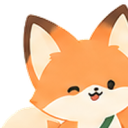
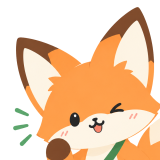
docs(brand): integre 5 expressions HD de Foxy + icone topbar en HD
Renomme les 6 fichiers "file_xxxxxxxx.png" ajoutes (noms opaques generes
par l'outil source) vers la convention du projet :
- expr-normal-hd.png, expr-smile-hd.png, expr-wink-hd.png,
  expr-worried-hd.png, expr-angry-hd.png : 5 des 9 expressions seules,
  jusqu'ici uniquement disponibles en basse resolution depuis
  foxy-style-guide.png.
- foxy-expressions-sheet-hd.png : planche de reference dont elles sont
  extraites (8 expressions au total, 3 pas encore decoupees
  individuellement : bikkuri/terreru/???).

mascot.md mis a jour (sources, inventaire des expressions HD dispo,
note sur la disparition des fichiers ChatGPT Image contenant l'unique
source HD de kangaeru - plus aucune source HD connue pour cette pose).

public/assets/img/mascot/brand-icon.png (icone de la topbar, ajoutee
dans le commit precedent) regenere depuis expr-wink-hd.png : fond
detoure par flood-fill depuis les bords (process documente en section 5
de mascot.md) puis recadre sur le visage, en remplacement du premier
essai recadre depuis wave-hello.png en basse resolution.

diff --git a/docs/brand/mascot.md b/docs/brand/mascot.md
@@ -24,31 +24,39 @@ pose utilisée en est extraite/détourée et exportée en PNG dans
   poses générées individuellement en HD, fond blanc uni (pas de carte, pas
   de légende), qualité et détail nettement supérieurs aux planches en
   grille. Numérotation alignée sur celle de `foxy_pose.png`/`foxy-pose-
-  sheet-v2.png` (1 à 24). C'est la source utilisée pour toute pose
+sheet-v2.png` (1 à 24). C'est la source utilisée pour toute pose
   disponible en HD ; les planches en grille ne servent plus que pour les
   poses pas encore régénérées individuellement (2, 16) et pour 考える.
+- **`docs/brand/expr-*-hd.png`** — même jour, mêmes propriétés (fond blanc
+  uni à détourer) que `NN_nom.png` mais pour 5 des 9 expressions seules
+  (jusque-là uniquement en basse résolution depuis `foxy-style-guide.png`) :
+  `expr-normal-hd.png` (通常), `expr-smile-hd.png` (にっこり),
+  `expr-wink-hd.png` (ウインク), `expr-worried-hd.png` (困る),
+  `expr-angry-hd.png` (怒る). `docs/brand/foxy-expressions-sheet-hd.png`
+  est la planche de référence dont elles sont extraites (8 expressions au
+  total — びっくり/照れる/??? y figurent aussi mais n'ont pas encore été
+  découpées individuellement ; 悲しい et 考える n'y figurent pas).
 
-Fichiers présents hors-scope (laissés tels quels, pas de rapport avec
-l'inventaire de poses) : `ChatGPT Image..._02_12_30.png` (mockup publicitaire
-parodiant Suica/JR East) et `ChatGPT Image..._08_26_29.png` (aperçu à 2 cases
-"考える"/"びっくり" avec sa propre numérotation locale, pas un cutout final —
-contient la seule version HD existante de 考える si on veut un jour
-harmoniser `error-404.png`).
+Les fichiers `ChatGPT Image..._02_12_30.png` (mockup publicitaire parodiant
+Suica/JR East, hors-scope) et `ChatGPT Image..._08_26_29.png` (aperçu à 2
+cases "考える"/"びっくり", contenait la seule version HD connue de 考える)
+mentionnés ici jusqu'au 12/09/2026 ont depuis disparu du dossier — 考える
+n'a donc plus aucune source HD (voir section 3).
 
 ## 1. Poses intégrées dans l'app
 
-| Pose | Source actuelle | Fichier exporté | Contexte d'usage |
-|---|---|---|---|
-| 考える (réfléchit, "?") | style-guide (basse résolution) | `error-404.png` | Page 404 — pas encore de version HD individuelle (voir ci-dessus) |
-| びっくり (surpris, "!!") | `01_surpris.png` (HD) | `error-403.png` | Page 403 |
-| 待機・通常 (neutre) | foxy_pose #2 (grille, pas encore en HD) | `error-405.png` | Page 405 |
-| 振り返る (se retourne) | `03_se_retourne.png` (HD) | `error-422.png` | Page 422 |
-| がっかり (déçu) | `04_decu.png` (HD) | `error-500.png` | Page 500 |
-| 寝る (dort) | `05_dort.png` (HD) | `error-503.png` | Page 503 (maintenance) |
-| スマホを見る (regarde son téléphone) | `06_telephone.png` (HD) | `docs-hero.png` | Sidebar wiki + page "wiki non cloné" (`/docs`) |
-| Salut / accueil | foxy_pose #16 (grille, pas encore en HD) | `wave-hello.png` | Bandeau des pages invité (`layout/guest.php` : login, mot de passe oublié, réinitialisation) |
-| ボックス (空) | foxy_pose #18 (grille, 2 variantes HD dispo, pas encore ré-exporté) | `box-empty.png` | Icône par défaut de **tout** `.empty-state` (CSS `::before`) — couvre ~25 emplacements dans l'app |
-| 通知・ベル | foxy_pose #22 (grille, HD dispo, pas encore ré-exporté) | `bell.png` | Variante `.empty-state--bell`, utilisée sur `/notifications` |
+| Pose                                 | Source actuelle                                                     | Fichier exporté  | Contexte d'usage                                                                                  |
+| ------------------------------------ | ------------------------------------------------------------------- | ---------------- | ------------------------------------------------------------------------------------------------- |
+| 考える (réfléchit, "?")              | style-guide (basse résolution)                                      | `error-404.png`  | Page 404 — pas encore de version HD individuelle (voir ci-dessus)                                 |
+| びっくり (surpris, "!!")             | `01_surpris.png` (HD)                                               | `error-403.png`  | Page 403                                                                                          |
+| 待機・通常 (neutre)                  | foxy_pose #2 (grille, pas encore en HD)                             | `error-405.png`  | Page 405                                                                                          |
+| 振り返る (se retourne)               | `03_se_retourne.png` (HD)                                           | `error-422.png`  | Page 422                                                                                          |
+| がっかり (déçu)                      | `04_decu.png` (HD)                                                  | `error-500.png`  | Page 500                                                                                          |
+| 寝る (dort)                          | `05_dort.png` (HD)                                                  | `error-503.png`  | Page 503 (maintenance)                                                                            |
+| スマホを見る (regarde son téléphone) | `06_telephone.png` (HD)                                             | `docs-hero.png`  | Sidebar wiki + page "wiki non cloné" (`/docs`)                                                    |
+| Salut / accueil                      | foxy_pose #16 (grille, pas encore en HD)                            | `wave-hello.png` | Bandeau des pages invité (`layout/guest.php` : login, mot de passe oublié, réinitialisation)      |
+| ボックス (空)                        | foxy_pose #18 (grille, 2 variantes HD dispo, pas encore ré-exporté) | `box-empty.png`  | Icône par défaut de **tout** `.empty-state` (CSS `::before`) — couvre ~25 emplacements dans l'app |
+| 通知・ベル                           | foxy_pose #22 (grille, HD dispo, pas encore ré-exporté)             | `bell.png`       | Variante `.empty-state--bell`, utilisée sur `/notifications`                                      |
 
 Les fichiers déjà utilisés dans l'app (`error-403/404/405/422/500/503.png`,
 `docs-hero.png`, `wave-hello.png`, `box-empty.png`, `bell.png`) restent ceux
@@ -61,30 +69,36 @@ netteté (403/422/500/503/404... voir ligne "docs-hero" : déjà HD).
 Fichiers `docs/brand/NN_nom.png`, fond blanc à détourer avant export vers
 `public/assets/img/mascot/` (process en section 4).
 
-| Fichier | Pose | Contexte suggéré |
-|---|---|---|
-| `07_marche.png` | 歩く, marche de profil | Étapes d'un assistant/wizard (installeur), indicateur de progression |
-| `08_assis.png` | 座る, assis neutre | État vide alternatif si on veut varier `box-empty` |
-| `09_court.png` | 走る, course | Traitement en cours (import Excel, sauvegarde, sync du wiki) |
-| `10_saute.png` | ジャンプ, saut joyeux | Confirmation de succès après une action (shift créé, congé approuvé) |
-| `11_etirement.png` | のび, étirement | Accueil dashboard ("Bonjour" du matin) |
-| `12_repos.png` | 座って休憩, assis détendu | Statut "en congé" (bundle TimeOff) |
-| `13_encourage.png` | 応援する, pompons | Fin d'assistant d'installation, jalon atteint |
-| `14_content.png` | 嬉しい, saute de joie | Écran de remerciement (bundle Feedback), échange de shift accepté |
-| `15_encourage_court.png` | 応援・走る, court en brandissant un drapeau K | Mise à jour / sauvegarde en cours (variante dynamique de #9) |
-| `17_recherche_vide.png` | 検索（空）, loupe + bulle "?" | "Aucun résultat" sur une liste avec recherche/filtre — pas encore câblé faute d'un point d'accroche CSS générique équivalent à `.empty-state` pour ce cas précis |
-| `18_boite_vide_penche.png` | ボックス（空）, penché par-dessus le carton | Variante possible de l'icône `.empty-state` par défaut |
-| `18_boite_vide_assis.png` | ボックス（空）, assis dans le carton | Variante possible de l'icône `.empty-state` par défaut — c'est celle-ci qui est la plus proche du cutout `box-empty.png` déjà en place |
-| `19_pointeuse.png` | タイムカード・時計, pointeuse "08:59" | Bundle Timeclock (confirmation de pointage) |
-| `21_Maintenance.png` | ツール・メンテナンス, casquette K + boîte à outils | Page de mise à jour admin (`system/update.php`) pendant une mise à jour |
-| `22_cloche.png` | 通知・ベル | Remplacement HD de `bell.png` |
-| `23_fete.png` | 祝う・節目, confettis (déjà fond transparent !) | Jalon célébré (mise à jour réussie, sauvegarde terminée) |
-| `24_fatigue.png` | 疲れてるけど立ってる, debout, goutte de sueur | Alerte douce sur charge de travail (proche du max de jours consécutifs) |
+| Fichier                    | Pose                                               | Contexte suggéré                                                                                                                                                 |
+| -------------------------- | -------------------------------------------------- | ---------------------------------------------------------------------------------------------------------------------------------------------------------------- |
+| `07_marche.png`            | 歩く, marche de profil                             | Étapes d'un assistant/wizard (installeur), indicateur de progression                                                                                             |
+| `08_assis.png`             | 座る, assis neutre                                 | État vide alternatif si on veut varier `box-empty`                                                                                                               |
+| `09_court.png`             | 走る, course                                       | Traitement en cours (import Excel, sauvegarde, sync du wiki)                                                                                                     |
+| `10_saute.png`             | ジャンプ, saut joyeux                              | Confirmation de succès après une action (shift créé, congé approuvé)                                                                                             |
+| `11_etirement.png`         | のび, étirement                                    | Accueil dashboard ("Bonjour" du matin)                                                                                                                           |
+| `12_repos.png`             | 座って休憩, assis détendu                          | Statut "en congé" (bundle TimeOff)                                                                                                                               |
+| `13_encourage.png`         | 応援する, pompons                                  | Fin d'assistant d'installation, jalon atteint                                                                                                                    |
+| `14_content.png`           | 嬉しい, saute de joie                              | Écran de remerciement (bundle Feedback), échange de shift accepté                                                                                                |
+| `15_encourage_court.png`   | 応援・走る, court en brandissant un drapeau K      | Mise à jour / sauvegarde en cours (variante dynamique de #9)                                                                                                     |
+| `17_recherche_vide.png`    | 検索（空）, loupe + bulle "?"                      | "Aucun résultat" sur une liste avec recherche/filtre — pas encore câblé faute d'un point d'accroche CSS générique équivalent à `.empty-state` pour ce cas précis |
+| `18_boite_vide_penche.png` | ボッwクス（空）, penché par-dessus le carton       | Variante possible de l'icône `.empty-state` par défaut                                                                                                           |
+| `18_boite_vide_assis.png`  | ボックス（空）, assis dans le carton               | Variante possible de l'icône `.empty-state` par défaut — c'est celle-ci qui est la plus proche du cutout `box-empty.png` déjà en place                           |
+| `19_pointeuse.png`         | タイムカード・時計, pointeuse "08:59"              | Bundle Timeclock (confirmation de pointage)                                                                                                                      |
+| `21_Maintenance.png`       | ツール・メンテナンス, casquette K + boîte à outils | Page de mise à jour admin (`system/update.php`) pendant une mise à jour                                                                                          |
+| `22_cloche.png`            | 通知・ベル                                         | Remplacement HD de `bell.png`                                                                                                                                    |
+| `23_fete.png`              | 祝う・節目, confettis (déjà fond transparent !)    | Jalon célébré (mise à jour réussie, sauvegarde terminée)                                                                                                         |
+| `24_fatigue.png`           | 疲れてるけど立ってる, debout, goutte de sueur      | Alerte douce sur charge de travail (proche du max de jours consécutifs)                                                                                          |
 
-Les 9 expressions seules de l'ancienne planche (通常/normal, にっこり/sourire,
+Des 9 expressions seules de l'ancienne planche (通常/normal, にっこり/sourire,
 ウインク/clin d'œil, びっくり/surpris, 困る/embêté, 照れる/gêné, 怒る/fâché,
-悲しい/triste, ???/perplexe) restent disponibles pour des contextes compacts,
-mais uniquement en basse résolution (pas encore régénérées en HD).
+悲しい/triste, ???/perplexe), utiles pour des contextes compacts, 5 sont
+maintenant disponibles en HD individuellement (通常, にっこり, ウインク,
+困る, 怒る — voir `expr-*-hd.png` en Sources) ; びっくり/照れる/??? restent
+en basse résolution malgré leur présence dans `foxy-expressions-sheet-hd.png`
+(pas encore découpées) ; 悲しい et 考える restent sans aucune source HD.
+
+`public/assets/img/mascot/brand-icon.png` (visage de Foxy dans la topbar,
+`.topbar-brand__icon`) est détouré et recadré depuis `expr-wink-hd.png`.
 
 ## 3. Poses encore manquantes en HD
 
@@ -92,9 +106,9 @@ mais uniquement en basse résolution (pas encore régénérées en HD).
   toujours en basse résolution.
 - **#16 Salut / accueil** — utilisé par `wave-hello.png`, toujours en basse
   résolution.
-- **考える** (réfléchit) — utilisé par `error-404.png` ; une version HD
-  existe dans l'aperçu à 2 cases `ChatGPT Image..._08_26_29.png` mais n'a
-  pas été découpée en cutout individuel.
+- **考える** (réfléchit) — utilisé par `error-404.png` ; l'aperçu qui en
+  contenait une version HD a disparu du dossier (voir Sources), aucune
+  source HD connue ne subsiste.
 
 ## 4. Points d'attention
 

diff --git a/CHANGELOG.md b/CHANGELOG.md
@@ -8,8 +8,9 @@ All notable changes to Kintai are documented here.
 
 ### Added
 - Owner settings — a new "Appearance" card lets the Owner pick the app's primary color (buttons, active links), defaulting to Foxy the mascot's full palette (`docs/brand/foxy-style-guide.png`) instead of the previous hardcoded violet: orange (`#ff9f4a`) as the base, brown (`#5b4a3a`) on hover, cream (`#fff5e6`) for light tints — used as-is rather than recomputed, since a custom color the Owner picks instead has no such ready-made variant and is derived by HSL math. `PrimaryColorPalette` derives the full set of hover/tint/dark-mode variants and injects them as inline CSS custom properties on `<html>`, so the light/dark theme toggle keeps working unchanged. Also fixed: card/modal shadows were tinted with the old violet's RGB regardless of the chosen primary color — they now follow it via a `--light-primary-rgb` token.
-- The complementary accent color (badges, highlights) switches from teal to the mascot's green (`#4caf50`), previously used in exactly one spot in the whole app (a propagated-shift badge). The topbar brand mark now shows a small cropped close-up of Foxy's face (`public/assets/img/mascot/brand-icon.png`, cropped from the existing `wave-hello.png`) instead of a plain color dot, so the mascot itself — not just its colors — is visible on every page, not only the guest ones.
+- The complementary accent color (badges, highlights) switches from teal to the mascot's green (`#4caf50`), previously used in exactly one spot in the whole app (a propagated-shift badge).
 - Data table rows now highlight on hover with the mascot's fifth color, a light green (`#dff5e1`, new `--color-table-highlight` token) — previously a neutral gray, or in one statistics table, no visible highlight at all.
+- 5 of Foxy's 9 expressions (normal, smile, wink, worried, angry) regenerated in HD (`docs/brand/expr-*-hd.png`, cropped from the new `foxy-expressions-sheet-hd.png` reference sheet) — previously only available at the original style guide's low resolution. The topbar's brand mark (next to "Kintai") now shows a cropped close-up of the winking one instead of a plain color dot, making the mascot itself visible on every page, not just the guest ones.
 - Foxy, the Kintai mascot, now illustrates the error pages (403/404/405/422/500/503) and the in-app documentation (wiki sidebar and the "not cloned locally" placeholder) — one pose per context (thinking for 404, startled for 403, sleeping for 503, disappointed for 500, etc.), cropped and made transparent from the original character sheet (kept for reference under `docs/brand/foxy-style-guide.png`).
 - Foxy also now waves hello on every guest page (login, forgot/reset password) and illustrates every generic empty state (`.empty-state`, ~25 spots app-wide) with a default "empty box" pose, swapped for a bell on the notifications page specifically — re-exported the 403/405/422/500/503/docs poses from a newer, more complete reference sheet (`docs/brand/foxy_pose.png`, 24 poses) so Foxy consistently carries its little "K" bag across all of them. See `docs/brand/mascot.md` for the full pose inventory and what's still available to wire up.
 
